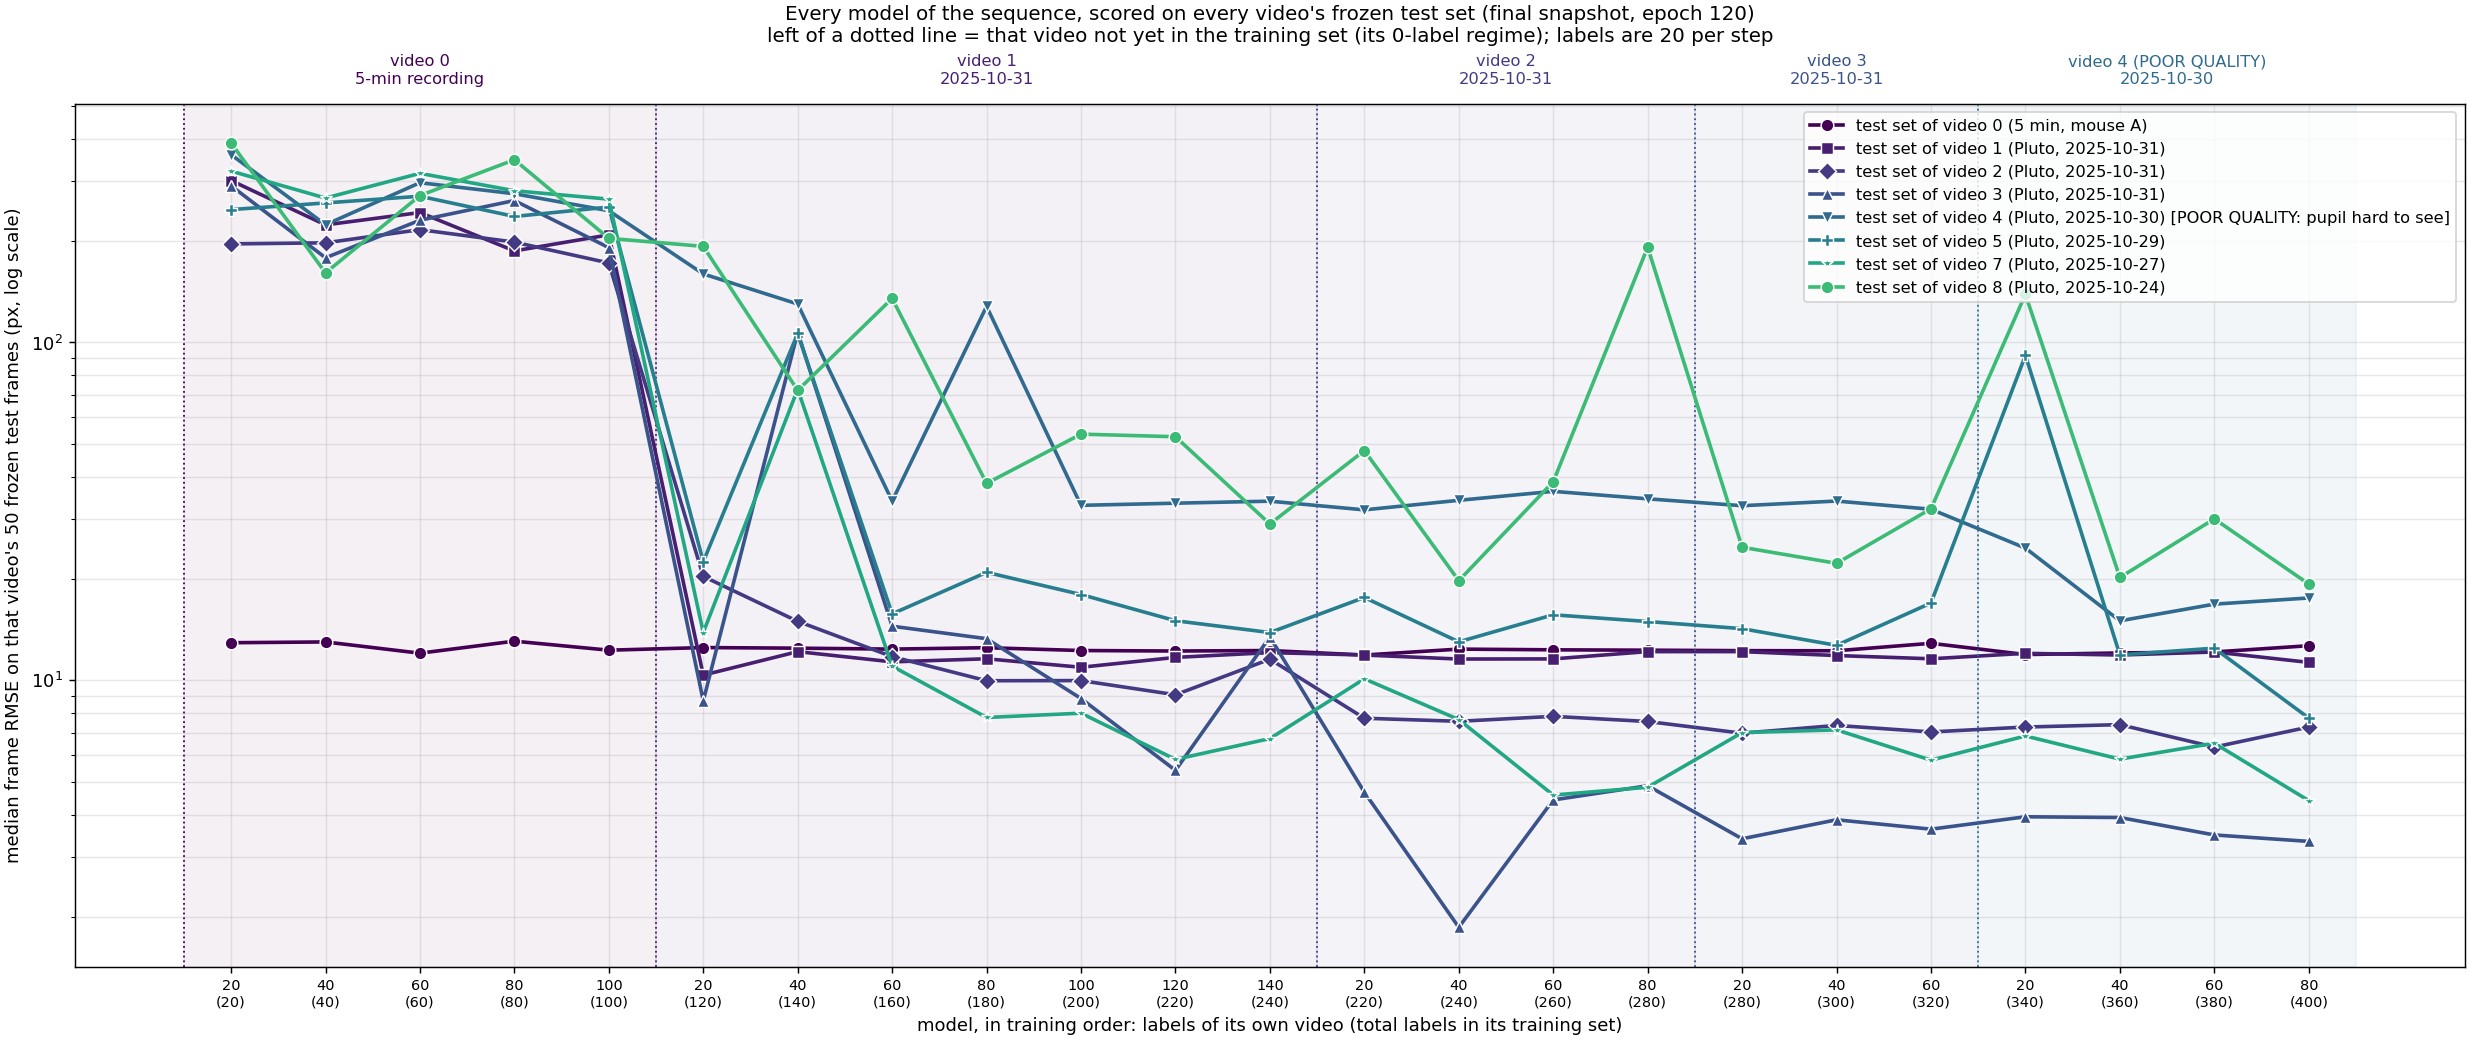
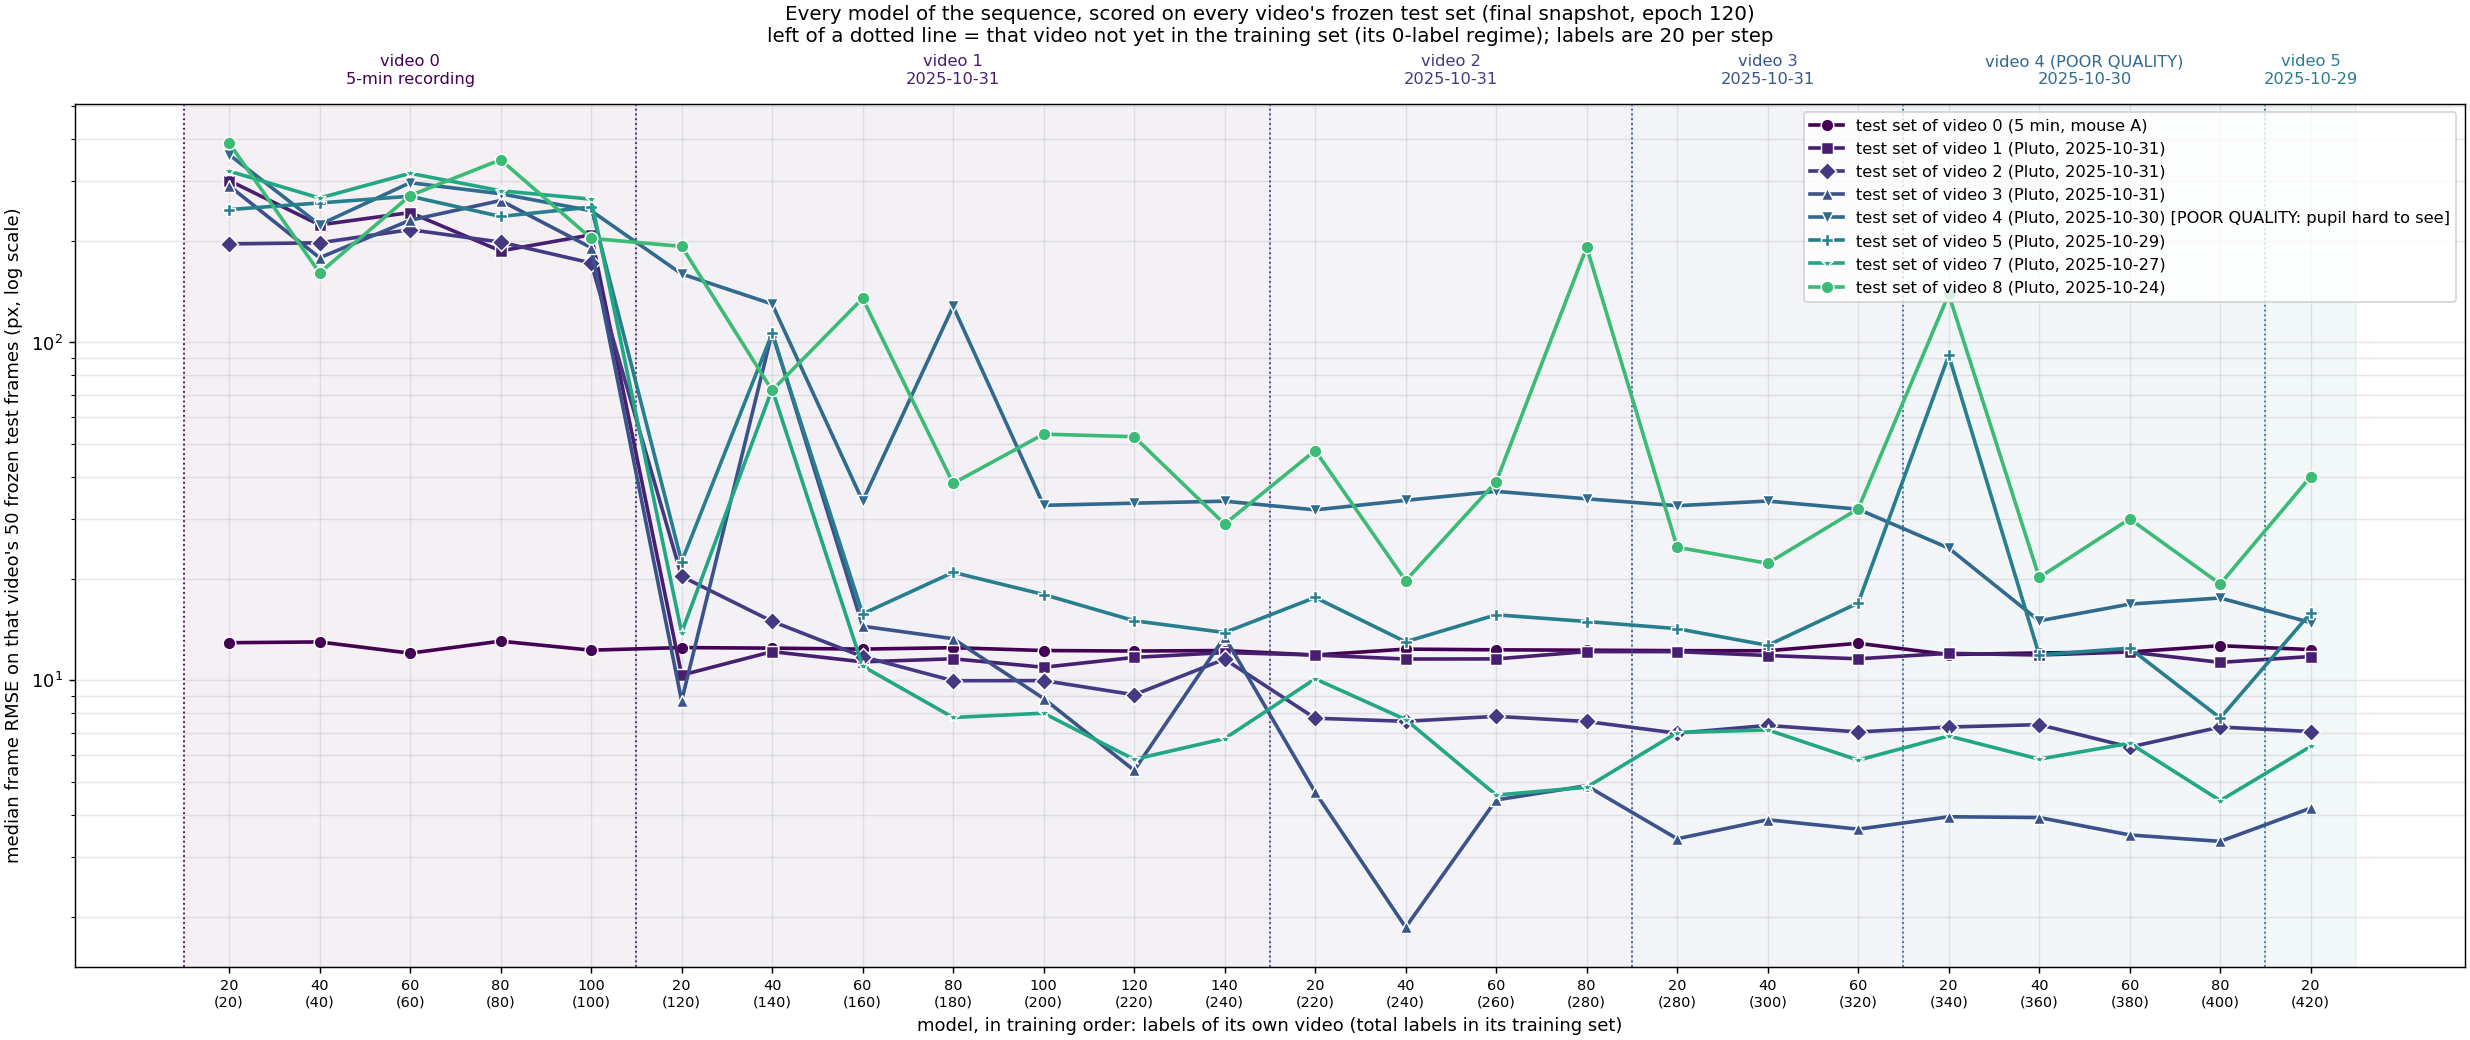
Video 5 v2: step-1 back-test (model 631), jump count, batch02 sheet; step 2 started

diff --git a/README.md b/README.md
@@ -8,7 +8,7 @@ how many human labels are needed, and how few frames must a person correct, befo
 Zhiheng Li (University of Minnesota), with Kaiwen Sheng (Stanford). Raw videos, frames, labels, model weights and
 per-frame predictions stay local; git carries code, documentation and audited aggregate results.
 
-## Status (last updated 2026-09-27 16:05 CDT)
+## Status (last updated 2026-09-27 17:22 CDT)
 
 | what | state |
 |---|---|
@@ -16,7 +16,7 @@ per-frame predictions stay local; git carries code, documentation and audited ag
 | Recipe (frozen) | ResNet-50, batch 2, trained from scratch, 120 epochs, LR drops at 96 / 114; headline = final snapshot, median per-frame RMSE over the 8 keypoints on 50 frozen test frames |
 | Videos done | video 0 (mouse A, 5 min), videos 1-3 (mouse B "Pluto", 2025-10-31) |
 | Finished | **video 4 run 2** (Pluto, 2025-10-30, convention v2): plateau at **40 labels, 15.01 px** (0/20/40/60/80 = 32.11/24.64/15.01/16.82/17.54 px). Run 1 (v1): 140 labels, 14.74 px (archived, tag `v0.8.0-video4-convention1`). Open: the v2 labels mark a much smaller pupil (width 92 vs 215 px) |
-| In progress | **video 5** (Pluto, 2025-10-29, convention v2): 0 labels (video-4 plateau model 532) = 11.90 px (p90 128, 12% of frames > 50 px); 20 labels = 15.85 px (p90 20.2, 0% > 50 px) - median worse, tail much better; batch02 held pending a decision |
+| In progress | **video 5** (Pluto, 2025-10-29, convention v2): 0 labels (video-4 plateau model 532) = 11.90 px (p90 128, 12% of frames > 50 px); 20 labels = 15.85 px (p90 20.2, 0% > 50 px) - median worse, tail much better; user chose to continue, batch02 labeled, step 2 training |
 | Blink / area analysis | per-video time series in `<video>/results/blink_area_analysis/`; across videos (`new_pupil_top_video_scaling/results/blink_area_consistency.png`): 4-point area better on 7 of 8 test sets; lowest pupil confidence < ~0.2 separates all 16 human closed-eye frames (the production 0.6 cut flags ~half of open frames); area correlates with eye opening in every video |
 | Test-set only | videos 5-8 (2025-10-29 / 28 / 27 / 24): frozen test sets scored by every model so far; videos 9 (10-23) and 10 (10-22): test sets being labeled |
 

diff --git a/new_pupil_top_video_scaling/5_20251029_Pluto_spont_1/results/README.md b/new_pupil_top_video_scaling/5_20251029_Pluto_spont_1/results/README.md
@@ -10,6 +10,6 @@ video's labels; shuffles 631, 632, ... The first attempt (convention v1, 0 label
 | labels of this video | median | p90 | frames > 50 px | keypoints conf >= 0.6 | pool frames flagged by the jump rule |
 |---|---|---|---|---|---|
 | 0 (video-4 run-2 plateau model 532, applied unchanged) | 11.90 px | 128.1 | 12% | 65% | – |
-| 20 (shuffle 631) | 15.85 px | 20.2 | 0% | 90% | pending |
+| 20 (shuffle 631) | 15.85 px | 20.2 | 0% | 90% | 4340 of 57158 (7.6%) |
 
 Eye time series: to be redrawn with a convention-v2 model.
